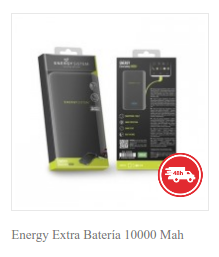
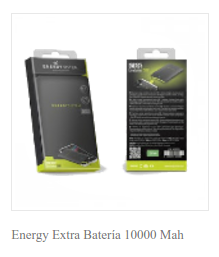
desafio 1 al 7 terminado

Changed region(s): [[0.1096, 0.1556, 0.9315, 0.7782]]

diff --git a/desafio6.html b/desafio6.html
@@ -1,0 +1,15 @@
+<!DOCTYPE html>
+<html lang="en">
+<head>
+    <meta charset="UTF-8">
+    <meta http-equiv="X-UA-Compatible" content="IE=edge">
+    <meta name="viewport" content="width=device-width, initial-scale=1.0">
+    <title>Desafio 6</title>
+    <link rel="stylesheet" href="/assets/css/desafio6.css">
+</head>
+<body>
+    <img class="energyBatery" src="/assets/img/ejercicio-6.png" alt="batery">
+    <img class="ribbonBatery" src="/assets/img/ejercicio-6_ribbon.png" alt="ribbon">
+    
+</body>
+</html>

diff --git a/desafio7.html b/desafio7.html
@@ -4,8 +4,10 @@
     <meta charset="UTF-8">
     <meta http-equiv="X-UA-Compatible" content="IE=edge">
     <meta name="viewport" content="width=device-width, initial-scale=1.0">
-    <title>Desafio Modelo de Cajas</title>
+    <title>Desafio 7</title>
+    <link rel="stylesheet" href="/assets/css/desafio7.css">
 </head>
 <body>
+    <img class="ribbon" src="/assets/img/ejercicio-7_awwwards.png" alt="ribbon">   
 </body>
 </html>

diff --git a/assets/css/desafio6.css b/assets/css/desafio6.css
@@ -1,0 +1,11 @@
+.energyBatery   {
+    position: absolute;
+
+}
+.ribbonBatery {
+    position: relative;
+    height:50px;
+    width:50px;
+    top: 152px;
+    left: 158px;
+}

diff --git a/assets/css/desafio7.css b/assets/css/desafio7.css
@@ -1,0 +1,5 @@
+.ribbon {
+    position:fixed;
+    top:0;
+    right:0;
+}
